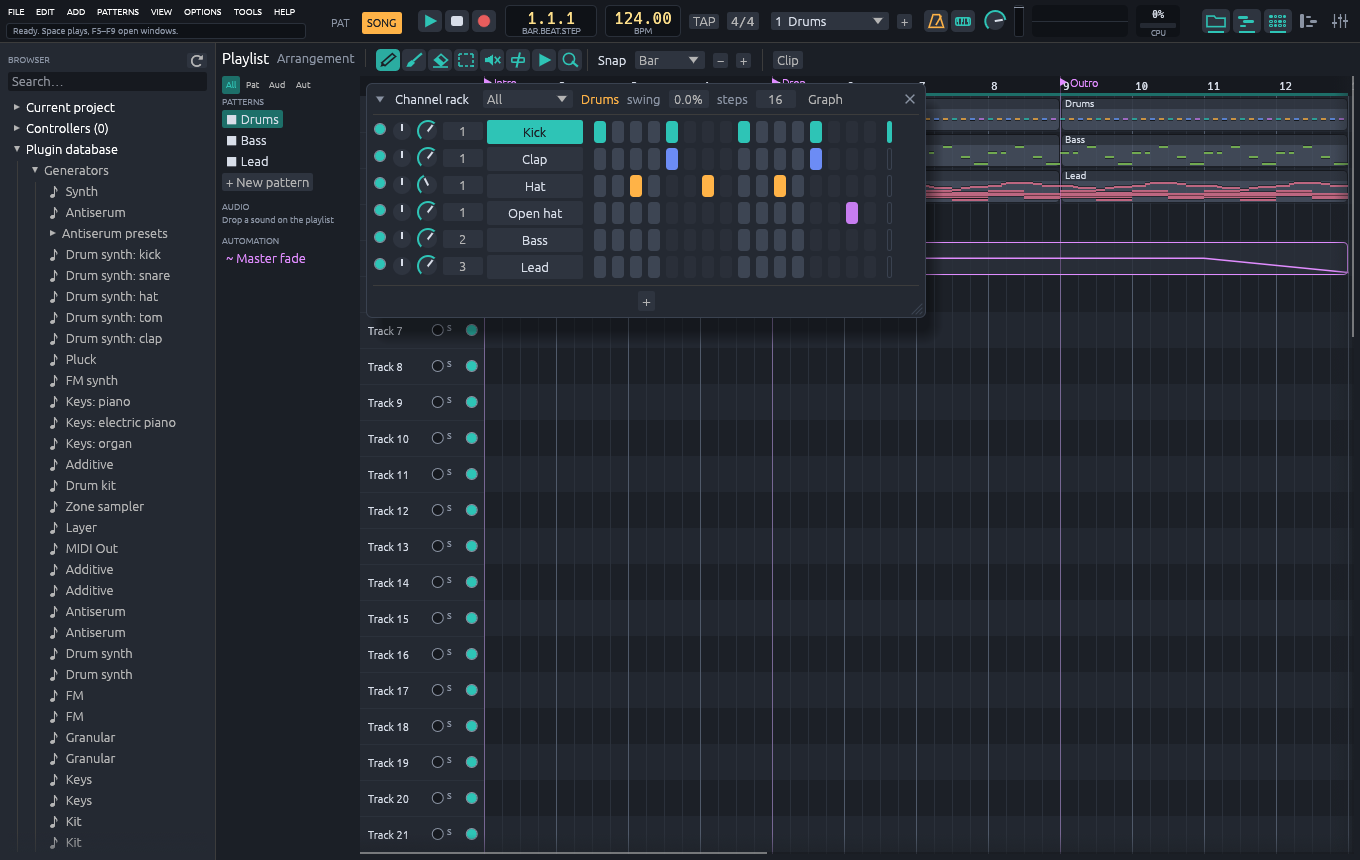
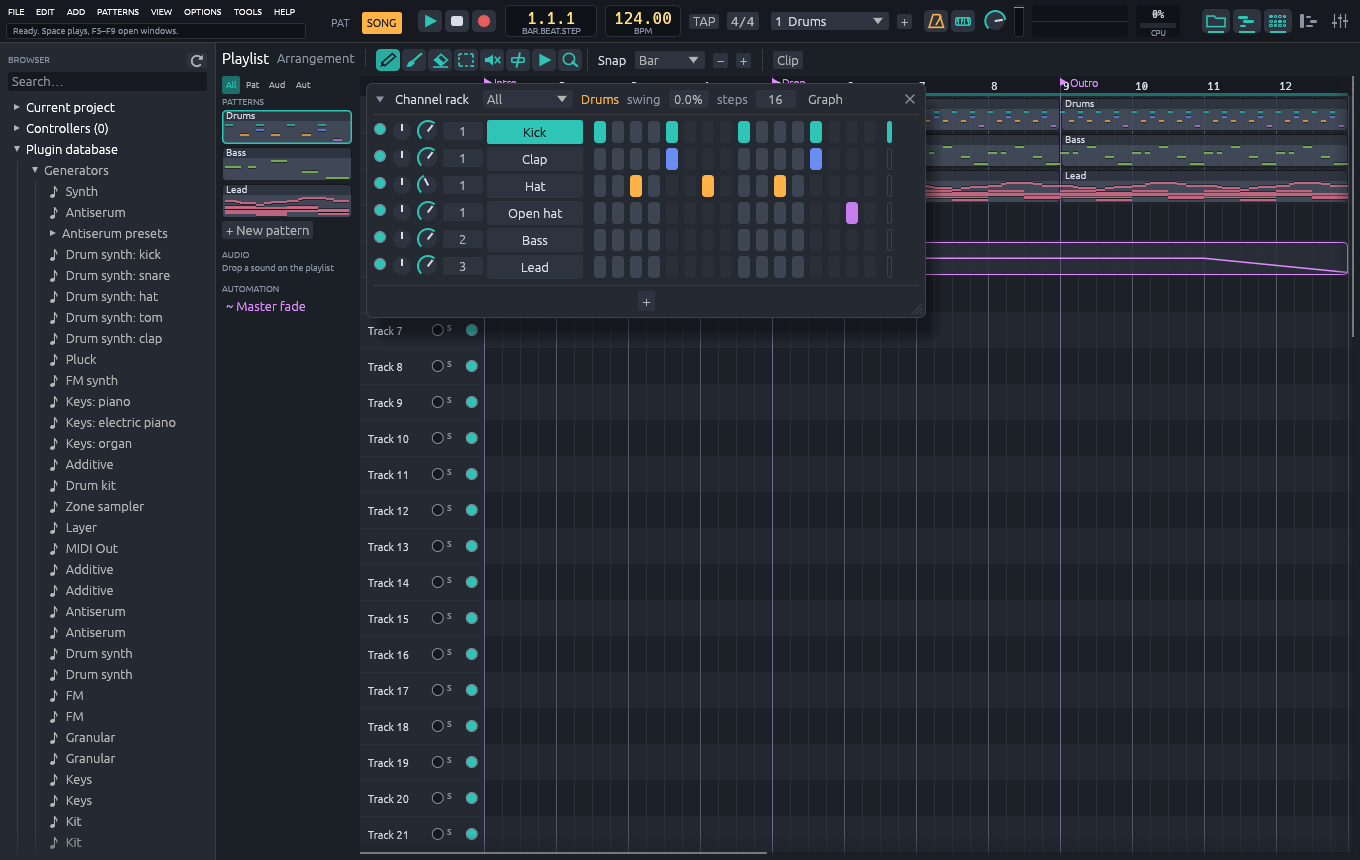
Pattern miniatures in the playlist picker
The picker shows each pattern as a small clip: its name over one pass of
its notes, in their own colours, on the pattern's colour or the neutral
fill; "empty" for a pattern without notes; the pattern being painted is
outlined. Patterns with default names are told apart by their content.

Previews share one note layout: by key, or, when every note has one key
and several channels play (a step pattern such as drums), one row per
channel in rack order, so drum clips read like a small step sequencer.

Spec: docs/spec/playlist.md. Interaction test for clicking a miniature.
README screenshots retaken.

Claude-Session: https://claude.ai/code/session_01X8R6FM9iA6hPcEY3geQZy2

Changed region(s): [[0.1544, 0.1209, 0.2779, 0.3628], [0.6794, 0.1209, 0.9882, 0.1512]]

diff --git a/crates/musiccraft-ui/src/playlist.rs b/crates/musiccraft-ui/src/playlist.rs
@@ -62,6 +62,9 @@ pub struct PlaylistState {
     pub(crate) paint_audio: Option<musiccraft_project::ChannelId>,
     /// What the picker beside the playlist lists.
     pub(crate) picker: Picker,
+    /// Each pattern's miniature in the picker on the last frame, in pattern
+    /// order (used by tests).
+    pub(crate) picker_items: Vec<Rect>,
     /// Loop range being drawn on the ruler.
     loop_drag: Option<(u32, u32)>,
     /// The active tool.
@@ -87,6 +90,7 @@ impl Default for PlaylistState {
             paint_automation: None,
             paint_audio: None,
             picker: Picker::All,
+            picker_items: Vec::new(),
             loop_drag: None,
             tool: Tool::Draw,
             painted: Vec::new(),
@@ -207,6 +211,7 @@ fn pattern_list(
     project: &Project,
     actions: &mut Vec<Action>,
 ) {
+    state.playlist.picker_items.clear();
     ui.vertical(|ui| {
         ui.set_width(LIST_WIDTH);
         ui.horizontal_wrapped(|ui| {
@@ -305,13 +310,14 @@ fn pattern_section(
             .id_salt("pattern-list")
             .max_height(260.0)
             .show(ui, |ui| {
+                ui.spacing_mut().item_spacing.y = 3.0;
                 for (i, pattern) in project.patterns.iter().enumerate() {
                     let selected = i == project.current_pattern;
-                    let text = RichText::new(format!("■ {}", pattern.name))
-                        .color(crate::pattern_text(pattern));
                     let painting = state.playlist.paint_automation.is_none()
                         && state.playlist.paint_audio.is_none();
-                    let response = ui.selectable_label(selected && painting, text);
+                    let response = miniature(ui, project, pattern, selected && painting)
+                        .hint("Click to paint this pattern; right-click for options");
+                    state.playlist.picker_items.push(response.rect);
                     if response.clicked() {
                         state.playlist.paint_automation = None;
                         state.playlist.paint_audio = None;
@@ -398,6 +404,66 @@ fn pattern_section(
             actions.push(Action::Run(Invocation::bare("pattern.add")));
         }
     }
+}
+
+/// Height of a pattern's miniature in the picker.
+const MINIATURE_HEIGHT: f32 = 34.0;
+
+/// A pattern drawn as a small clip: its name over its notes.
+fn miniature(
+    ui: &mut egui::Ui,
+    project: &Project,
+    pattern: &musiccraft_project::Pattern,
+    selected: bool,
+) -> egui::Response {
+    let width = ui.available_width();
+    let (rect, response) =
+        ui.allocate_exact_size(vec2(width, MINIATURE_HEIGHT), egui::Sense::click());
+    let painter = ui.painter().with_clip_rect(rect.intersect(ui.clip_rect()));
+    let color = crate::pattern_color(pattern).unwrap_or(UNCOLOURED_CLIP);
+    painter.rect_filled(rect, 4.0, color.gamma_multiply(0.8));
+    let title = Rect::from_min_max(rect.min, pos2(rect.right(), rect.top() + TITLE_HEIGHT));
+    painter.rect_filled(
+        title,
+        egui::CornerRadius {
+            nw: 4,
+            ne: 4,
+            sw: 0,
+            se: 0,
+        },
+        Color32::from_black_alpha(70),
+    );
+    painter.text(
+        pos2(title.left() + 4.0, title.center().y),
+        Align2::LEFT_CENTER,
+        &pattern.name,
+        FontId::proportional(10.0),
+        theme::TEXT,
+    );
+    let body = Rect::from_min_max(
+        pos2(rect.left() + 3.0, title.bottom() + 2.0),
+        pos2(rect.right() - 3.0, rect.bottom() - 2.0),
+    );
+    if pattern.notes.is_empty() {
+        painter.text(
+            body.center(),
+            Align2::CENTER_CENTER,
+            "empty",
+            FontId::proportional(9.0),
+            theme::TEXT_DIM,
+        );
+    } else {
+        pattern_thumbnail(&painter, project, pattern, body);
+    }
+    let edge = if selected {
+        Stroke::new(1.5, theme::ACCENT)
+    } else if response.hovered() {
+        Stroke::new(1.0, theme::TEXT_DIM)
+    } else {
+        Stroke::new(1.0, Color32::from_black_alpha(140))
+    };
+    painter.rect_stroke(rect, 4.0, edge, egui::StrokeKind::Inside);
+    response
 }
 
 fn automation_section(
@@ -785,12 +851,89 @@ fn draw_clip(
 /// Height of a clip's title strip.
 const TITLE_HEIGHT: f32 = 11.0;
 
-/// Miniature of a pattern's notes, repeated across the clip.
 /// Fill of a clip whose pattern has no colour of its own.
 const UNCOLOURED_CLIP: Color32 = Color32::from_rgb(0x4a, 0x53, 0x63);
 
-/// The notes of `pattern` across a clip at `start` lasting `length`, each in
-/// its own colour as in the piano roll.
+/// How a preview places a pattern's notes vertically.
+enum NoteRows {
+    /// By key, from the lowest (bottom) to the highest.
+    Keys { lo: u8, span: f32 },
+    /// Every note has one key and several channels play: one row per
+    /// channel, these channel positions in rack order from the top.
+    Channels(Vec<usize>),
+    /// Every note on one line.
+    Single,
+}
+
+impl NoteRows {
+    fn of(project: &Project, pattern: &musiccraft_project::Pattern) -> Self {
+        let (lo, hi) = pattern
+            .notes
+            .iter()
+            .fold((127u8, 0u8), |(lo, hi), n| (lo.min(n.key), hi.max(n.key)));
+        if lo < hi {
+            return Self::Keys {
+                lo,
+                span: f32::from(hi - lo),
+            };
+        }
+        let mut channels: Vec<usize> = pattern
+            .notes
+            .iter()
+            .filter_map(|n| project.channel_position(n.channel))
+            .collect();
+        channels.sort_unstable();
+        channels.dedup();
+        if channels.len() > 1 {
+            Self::Channels(channels)
+        } else {
+            Self::Single
+        }
+    }
+
+    /// The height of `note`'s line inside `body`.
+    fn y(&self, project: &Project, note: &musiccraft_project::Note, body: Rect) -> f32 {
+        match self {
+            Self::Keys { lo, span } => {
+                body.bottom()
+                    - (f32::from(note.key.saturating_sub(*lo)) / span) * (body.height() - 2.0)
+                    - 1.0
+            }
+            Self::Channels(rows) => {
+                let row = project
+                    .channel_position(note.channel)
+                    .and_then(|c| rows.iter().position(|r| *r == c))
+                    .unwrap_or(0);
+                let pitch = body.height() / rows.len() as f32;
+                body.top() + pitch * (row as f32 + 0.5)
+            }
+            Self::Single => body.center().y,
+        }
+    }
+}
+
+/// A note's colour, as in the piano roll: its colour group, or its channel's
+/// colour for group "channel".
+fn note_tint(project: &Project, note: &musiccraft_project::Note) -> Color32 {
+    if note.props.color > 0 {
+        crate::piano_roll::note_color(note.props.color)
+    } else {
+        theme::palette(project.channel_position(note.channel).unwrap_or(0))
+    }
+}
+
+/// One note of a preview, from `x0` to `x1` at height `y`.
+fn note_mark(painter: &egui::Painter, x0: f32, x1: f32, y: f32, tint: Color32) {
+    // A dark edge keeps notes readable on a coloured clip.
+    painter.line_segment(
+        [pos2(x0, y), pos2(x1, y)],
+        Stroke::new(3.0, Color32::from_black_alpha(110)),
+    );
+    painter.line_segment([pos2(x0, y), pos2(x1, y)], Stroke::new(1.5, tint));
+}
+
+/// The notes of `pattern` repeated across a clip at `start` lasting `length`,
+/// each in its own colour.
 fn pattern_preview(
     painter: &egui::Painter,
     grid: &Grid,
@@ -800,11 +943,7 @@ fn pattern_preview(
     (start, length): (u32, u32),
 ) {
     let period = pattern.length_ticks().max(1);
-    let (lo, hi) = pattern
-        .notes
-        .iter()
-        .fold((127u8, 0u8), |(lo, hi), n| (lo.min(n.key), hi.max(n.key)));
-    let span = f32::from(hi.saturating_sub(lo).max(1));
+    let rows = NoteRows::of(project, pattern);
     let mut offset = 0;
     while offset < length {
         for note in &pattern.notes {
@@ -816,26 +955,28 @@ fn pattern_preview(
             let x1 = grid
                 .x((start + (s + note.length).min(length)) as f32)
                 .max(x0 + 1.5);
-            let y = if hi == lo {
-                body.center().y
-            } else {
-                body.bottom()
-                    - (f32::from(note.key - lo.min(note.key)) / span) * (body.height() - 2.0)
-                    - 1.0
-            };
-            let tint = if note.props.color > 0 {
-                crate::piano_roll::note_color(note.props.color)
-            } else {
-                theme::palette(project.channel_position(note.channel).unwrap_or(0))
-            };
-            // A dark edge keeps notes readable on a coloured clip.
-            painter.line_segment(
-                [pos2(x0, y), pos2(x1, y)],
-                Stroke::new(3.0, Color32::from_black_alpha(110)),
-            );
-            painter.line_segment([pos2(x0, y), pos2(x1, y)], Stroke::new(1.5, tint));
+            let y = rows.y(project, note, body);
+            note_mark(painter, x0, x1, y, note_tint(project, note));
         }
         offset += period;
+    }
+}
+
+/// One pass of `pattern`'s notes fitted into `body`, for the picker.
+fn pattern_thumbnail(
+    painter: &egui::Painter,
+    project: &Project,
+    pattern: &musiccraft_project::Pattern,
+    body: Rect,
+) {
+    let length = pattern.length_ticks().max(1) as f32;
+    let x = |tick: u32| body.left() + (tick as f32 / length).min(1.0) * body.width();
+    let rows = NoteRows::of(project, pattern);
+    for note in &pattern.notes {
+        let x0 = x(note.start);
+        let x1 = x(note.start.saturating_add(note.length)).max(x0 + 1.5);
+        let y = rows.y(project, note, body);
+        note_mark(painter, x0, x1, y, note_tint(project, note));
     }
 }
 

diff --git a/crates/musiccraft-ui/src/interaction_tests.rs b/crates/musiccraft-ui/src/interaction_tests.rs
@@ -1279,6 +1279,33 @@ fn alt_dragging_a_segment_bends_it_in_one_step() {
 }
 
 #[test]
+fn pattern_miniatures_in_the_picker_select_the_pattern_to_paint() {
+    let mut h = Harness::new(&[
+        "channel.add_sampler builtin:kick",
+        "step.toggle 1 1",
+        "pattern.add",
+        "pattern.select 1",
+    ]);
+    h.state.windows.playlist = true;
+    h.state.playlist.paint_audio = Some(h.session.project().channels[0].id);
+    h.settle();
+    let items = h.state.playlist.picker_items.clone();
+    assert_eq!(items.len(), 2, "one miniature per pattern: {items:?}");
+    assert!(items[0].height() >= 30.0 && items[1].top() > items[0].bottom());
+    // Clicking the second pattern's miniature selects it and paints patterns
+    // again instead of audio.
+    let commands = h.click(items[1].center(), PointerButton::Primary);
+    assert_eq!(commands, ["pattern.select 2"]);
+    assert_eq!(h.state.playlist.paint_audio, None);
+    // Clicking the selected one again changes nothing in the project.
+    let items = h.state.playlist.picker_items.clone();
+    assert!(
+        h.click(items[1].center(), PointerButton::Primary)
+            .is_empty()
+    );
+}
+
+#[test]
 fn the_picker_paints_audio_clips_at_their_length() {
     let mut h = Harness::new(&[
         "channel.add_sampler builtin:kick",

diff --git a/docs/spec/playlist.md b/docs/spec/playlist.md
@@ -81,6 +81,11 @@
   the notes are drawn in their own colours, as in the piano roll: a note's
   colour group, or its channel's colour for group "channel". Notes of one
   pattern can therefore show several colours.
+- **Note rows in a preview**: notes sit by key, the lowest at the bottom.
+  When every note of a pattern has the same key (a step-sequenced pattern,
+  such as drums) and more than one channel plays, each channel gets its own
+  row instead, in channel rack order from the top, so the preview reads like
+  a small step sequencer.
 - **Audio clips** (`playlist.add_audio_clip <channel> <track> <start> <length>`)
   play a sampler channel's sample once from the clip start, unpitched (at the
   channel's root key), cut at the clip end. Dropping a sound from the browser on
@@ -198,6 +203,14 @@
 - Left-click on an empty cell places the selected pattern at the snapped bar;
   dragging a clip moves it; dragging its right edge resizes it; right-click
   deletes. The pattern list next to the playlist selects the pattern to paint.
+- **Pattern miniatures**: the picker shows each pattern as a small clip, so
+  patterns are told apart by their content even when they keep their default
+  names. A miniature is the width of the picker and 34 points tall: the name
+  in a title strip, then one pass of the pattern's notes laid out as in a
+  clip preview (above), on the pattern's colour or the neutral fill. An empty
+  pattern says "empty". The pattern being painted is outlined in the accent
+  colour. Click selects it for painting; right-click opens the pattern menu
+  (rename, clone, colour, time signature, clear automation, delete).
 - The playlist is the main workspace. Click or drag on the ruler to move the
   playhead; during song playback the view follows the playhead.
 - Selection works as in the piano roll: click, Shift+click, Ctrl+drag rectangle;
@@ -215,6 +228,11 @@
 - Patterns without a colour of their own, with notes shown in their own
   colours inside clips: the project owner's account of how the software
   behaves (2026-10-21); the neutral fill is our own.
+- Pattern miniatures in the picker: the owner's request (2026-10-21), compared
+  with the picker panel in the FL Studio online manual, "Playlist"
+  (`playlist.htm`), under the "layout plus general feel" decision in
+  `docs/clean-room.md`. Sizes, the empty label, the outline and the
+  one-row-per-channel layout for step patterns are our own.
 - Pattern clips arranged on a playlist and a song/pattern mode switch follow the
   workflow described in the FL Studio online manual, "Playlist" section. Row
   count, overlap rule and command names are our own.

diff --git a/CHANGELOG.md b/CHANGELOG.md
@@ -21,6 +21,10 @@ commit; this file says what they add up to.
   Colour, or `pattern.set_color`). Uncoloured clips are drawn neutral, and
   the notes inside every pattern clip show their own colours, as in the
   piano roll, so one pattern can show several.
+- The playlist's picker shows each pattern as a miniature of its notes, so
+  patterns with default names are easy to tell apart. In previews, a
+  step-sequenced pattern (every note on one key, as drums usually are) gets
+  one row per channel.
 
 ### Fixes
 
